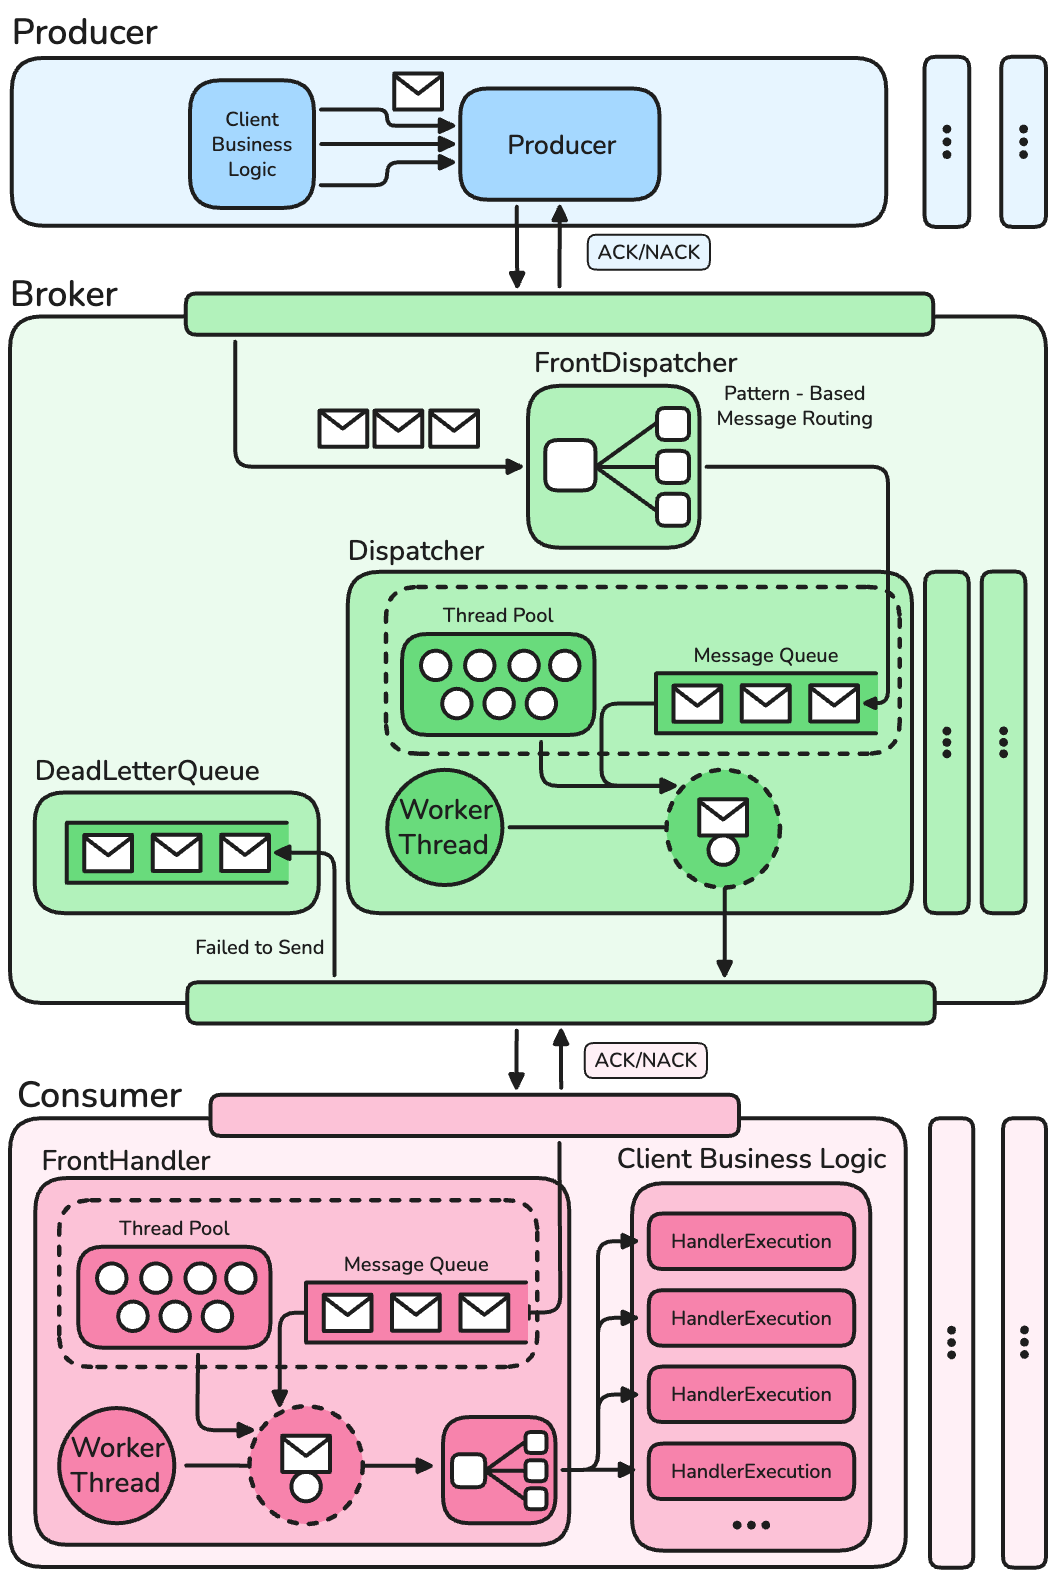
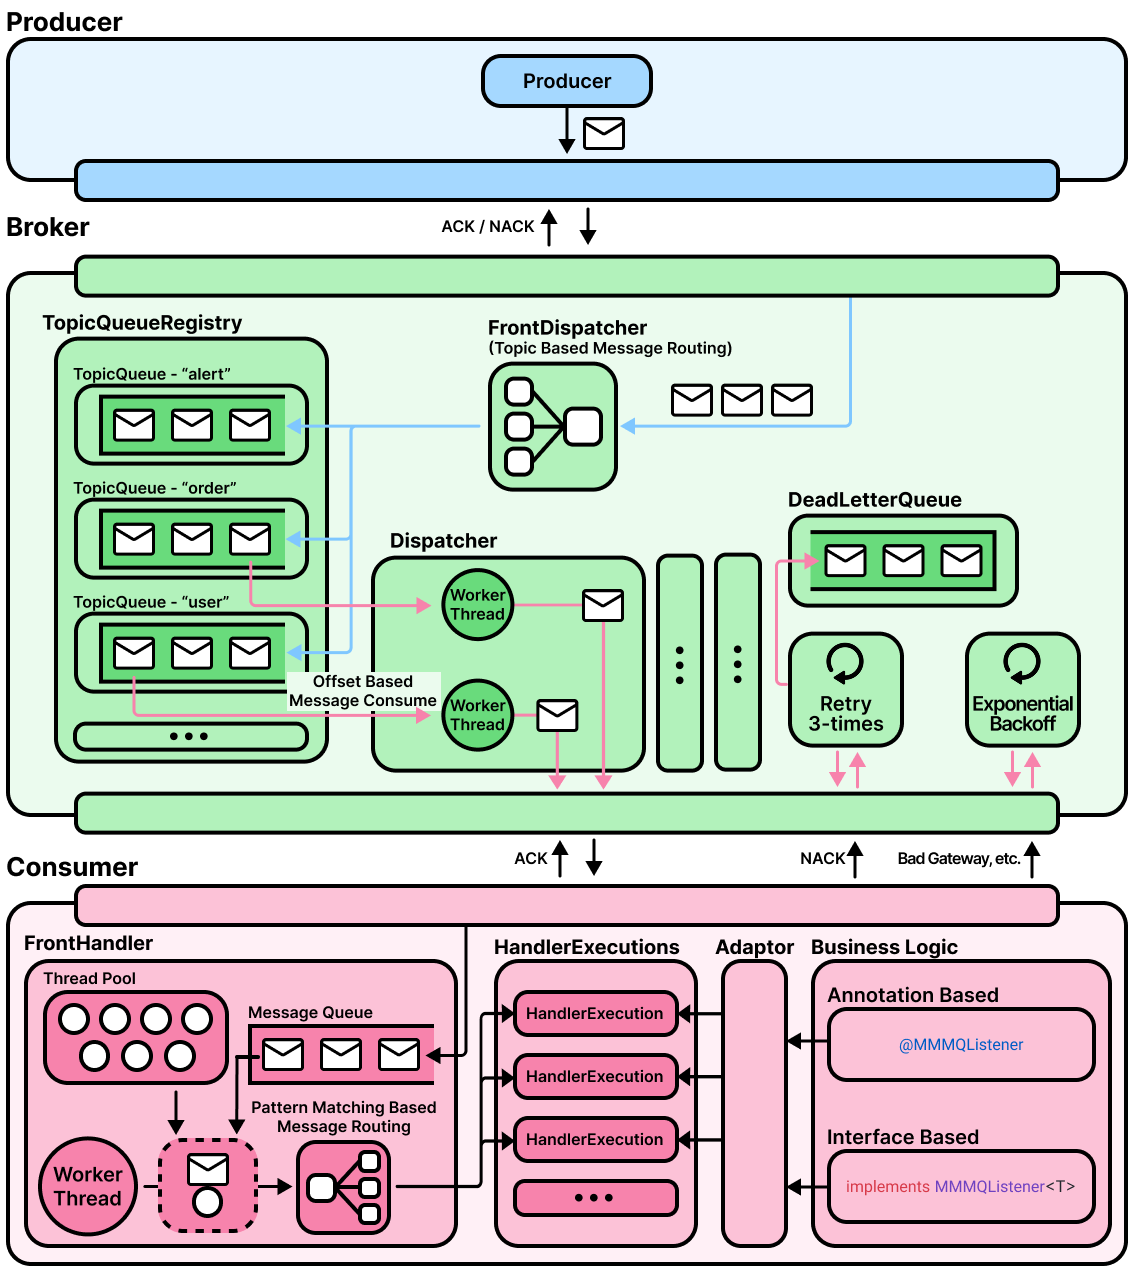
docs: README에 아키텍처 그림 추가

diff --git a/README.md b/README.md
@@ -11,6 +11,8 @@
 
 # 🏗 아키텍처
 
+![전체_아키텍처.png](docs/images/%EC%A0%84%EC%B2%B4_%EC%95%84%ED%82%A4%ED%85%8D%EC%B2%98.png)
+
 ## 전체 메시지 흐름
 
 ```
